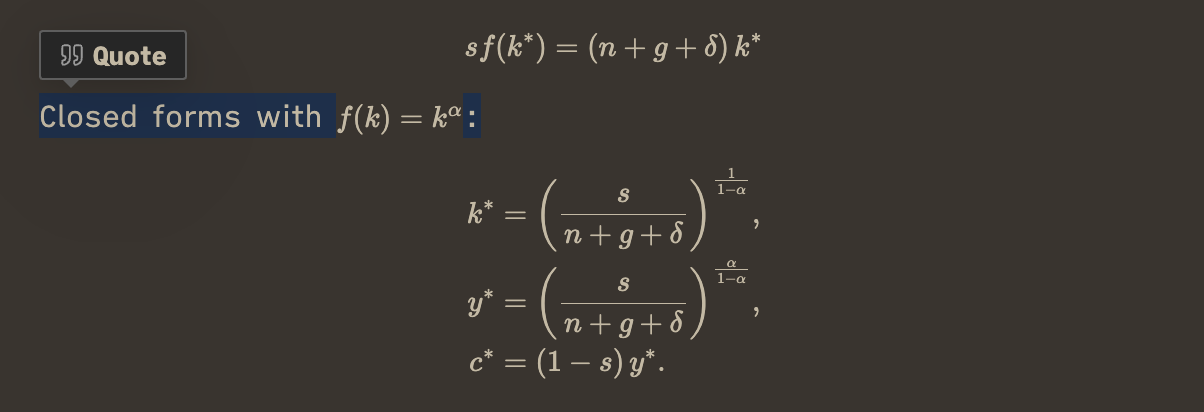
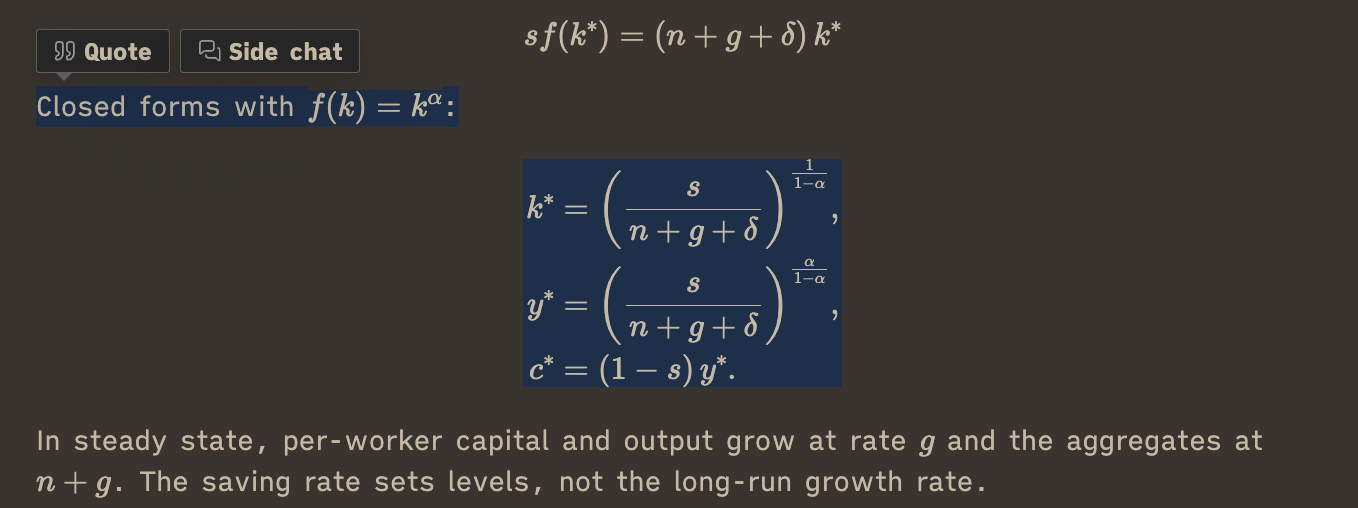
README: Quote-button screenshot with equations shown as selected

diff --git a/README.md b/README.md
@@ -43,7 +43,7 @@ Open the chat from the robot icon in the left ribbon.
 
 - **Select text in a reply** for a **Quote** button; equations are quoted as LaTeX.
 
-  <img src="docs/quote-button.png" width="480" alt="Text selected in a reply, with an equation in it, and the Quote button just above it">
+  <img src="docs/quote-button.png" width="480" alt="Text and equations selected in a reply, the equations shown as selected too, with the Quote and Side chat buttons just above them">
 
 - **Side chat:** ask about the chat without changing it, from the button beside Quote or beside the chat title. Paste or drop images on it to ask about them. It knows the conversation so far, runs in Plan mode so it changes nothing, and is deleted when closed unless you choose **Keep as a chat**.
 
